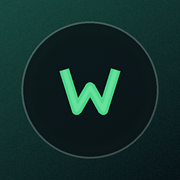
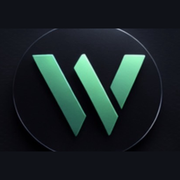
Add files via upload

diff --git a/styles.css b/styles.css
@@ -5,19 +5,9 @@
   --mint:#56dcae;
   --stroke:rgba(255,255,255,.14);
   --r:18px;
-
-  --fs-hero: clamp(2.1rem, 5vw, 3.0rem);
-  --fs-h2: 1.6rem;
-  --fs-body: 1rem;
-  --fs-small: .92rem;
-  --lh-body: 1.45;
-  --radius-lg: 22px;
-  --radius-md: 16px;
-  --focus: 0 0 0 3px rgba(45,191,130,.25);
 }
 *{box-sizing:border-box}
-html,body{height:100%  line-height: var(--lh-body);
-}
+html,body{height:100%}
 body{
   margin:0;
   font-family:-apple-system,BlinkMacSystemFont,"Segoe UI",Roboto,Helvetica,Arial;
@@ -28,29 +18,14 @@ body{
   color:var(--text);
 }
 .topbar{
-  position:relative;
-  z-index:10;
+  position:sticky; top:0; z-index:10;
   backdrop-filter: blur(14px);
   background: rgba(15,20,28,.72);
   border-bottom:1px solid var(--stroke);
-  padding: 20px 16px 14px;
-  display:flex;
-  justify-content:center;
-  text-align:center;
+  padding: 14px 16px;
+  display:flex; align-items:center; justify-content:space-between;
 }
-
-.brand{display:flex; flex-direction:column; gap:10px; align-items:center}
-
-.brand .logo{
-  width:56px;height:56px;flex:0 0 auto;
-  display:grid;place-items:center;
-  border-radius:999px;
-  box-shadow: 0 10px 24px rgba(0,0,0,.35), inset 0 0 0 1px rgba(255,255,255,.10);
-  overflow:hidden;
-}
-.brand .logo img{
-  width:56px;height:56px;display:block;
-}
+.brand{display:flex; gap:12px; align-items:center}
 .mark{
   width:42px; height:42px; display:grid; place-items:center;
   border-radius:14px;
@@ -59,6 +34,23 @@ body{
   color: var(--mint);
   font-weight:800;
 }
+.mark img{width:42px; height:42px; border-radius:14px; display:block}
+
+/* Splash */
+.splash{
+  position:fixed;
+  inset:0;
+  display:grid;
+  place-items:center;
+  background:
+    radial-gradient(800px 500px at 10% 0%, rgba(86,220,174,.22), transparent 60%),
+    radial-gradient(900px 600px at 90% 20%, rgba(86,220,174,.12), transparent 60%),
+    var(--bg);
+  z-index:9999;
+  transition: opacity .28s ease, transform .28s ease;
+}
+.splashLogo{width:min(72vw, 360px); height:auto; border-radius: 18px; box-shadow: 0 18px 60px rgba(0,0,0,.55)}
+.splash.hide{opacity:0; transform: scale(.98); pointer-events:none}
 .title{font-weight:800; letter-spacing:.2px}
 .subtitle{font-size:12px; color:var(--muted)}
 .wrap{max-width: 900px; margin: 0 auto; padding: 16px; display:grid; gap:16px}
@@ -240,13 +232,3 @@ button.ghost{background: transparent}
 }
 
 .footerLinks a:active{opacity:.7}
-
-/* Micro-interactions + accessibility */
-button, a, input, select, textarea { -webkit-tap-highlight-color: transparent; }
-.btn:active, .seg:active { transform: translateY(1px); }
-.btn:focus-visible, .seg:focus-visible, input:focus-visible, select:focus-visible, textarea:focus-visible {
-  outline: none;
-  box-shadow: var(--focus);
-}
-.footerLinks a{ text-decoration-thickness: 2px; text-underline-offset: 8px; }
-.footerLinks a:hover{ opacity: .95; }

diff --git a/index.html b/index.html
@@ -6,19 +6,34 @@
   <title>UK Take-Home Pay Calculator 2025/26 | WageWise UK</title>
   <meta name="theme-color" content="#10141c" />
   <meta name="description" content="Free UK take-home pay calculator for 2025/26. Calculate salary or hourly wages, pension, student loans and estimate annual salary from payslips.">
-  <link rel="manifest" href="manifest.json?v=4" />
-  <link rel="icon" href="icon-192-v3.png" />
-  <link rel="apple-touch-icon" href="apple-touch-icon.png?v=4" />
+  <link rel="manifest" href="manifest.json" />
+  <link rel="icon" type="image/png" sizes="32x32" href="favicon-32.png" />
+  <link rel="icon" type="image/png" sizes="192x192" href="icon-192.png" />
+  <link rel="apple-touch-icon" sizes="180x180" href="apple-touch-icon.png" />
   <link rel="stylesheet" href="styles.css" />
 </head>
 <body>
-  <header class="topbar">
-  <div class="brand">
-    <div class="logo"><img src="icon-192-v2.png" alt="WageWise logo" /></div>
-    <h1>WageWise UK</h1>
-    <p>Take-home pay, clearly • Updated for 2025/26</p>
+  <!-- Splash (first paint) -->
+  <div id="splash" class="splash" aria-hidden="true">
+    <img class="splashLogo" src="logo-full.jpg" alt="WageWise UK" />
   </div>
-</header>
+
+  <header class="topbar">
+    <div class="brand">
+      <div class="mark" aria-hidden="true">
+        <img src="icon-192.png" alt="" width="42" height="42" />
+      </div>
+      <div>
+        <div class="title">WageWise UK</div>
+        <div class="subtitle">Take-home pay, clearly • Updated for 2025/26</div>
+      </div>
+    </div>
+
+    <div class="switcher" role="tablist" aria-label="Choose tool">
+      <button id="tabCalc" class="seg active" type="button" role="tab" aria-selected="true">Calculator</button>
+      <button id="tabSalary" class="seg" type="button" role="tab" aria-selected="false">Salary Finder</button>
+    </div>
+  </header>
 
   <main class="wrap">
     <div class="badge" aria-label="Tax year">🇬🇧 UK Tax Year <strong>2025/26</strong></div>

diff --git a/sw.js b/sw.js
@@ -1,18 +1,15 @@
-const CACHE = 'wagewiseuk-pwa-v1-1';
+const CACHE = 'wagewiseuk-pwa-v1-0-trust';
 const ASSETS = [
-  "./",
-  "./index.html",
-  "./about.html",
-  "./privacy.html",
-  "./disclaimer.html",
-  "./styles.css",
-  "./app.js",
-  "./manifest.json",
-  "./icon-192.png",
-  "./icon-512.png",
-  "./icon-192-maskable.png",
-  "./icon-512-maskable.png",
-  "./apple-touch-icon.png"
+  './',
+  './index.html',
+  './about.html',
+  './privacy.html',
+  './disclaimer.html',
+  './styles.css',
+  './app.js',
+  './manifest.json',
+  './icon-192.png',
+  './icon-512.png'
 ];
 
 self.addEventListener('install', (event) => {

diff --git a/app.js b/app.js
@@ -1,5 +1,15 @@
 // WageWise UK (PWA) — 2025/26 PAYE estimator (single-file, GitHub Pages friendly)
 
+// Splash fade-out (keeps first paint clean on slower phones)
+window.addEventListener('load', () => {
+  const splash = document.getElementById('splash');
+  if (!splash) return;
+  // small delay so the logo is visible even on fast loads
+  setTimeout(() => splash.classList.add('hide'), 450);
+  // remove from DOM after transition to keep things tidy
+  setTimeout(() => splash.remove(), 900);
+});
+
 const TY = {
   standardPersonalAllowance: 12570,
   allowanceTaperStart: 100000,
